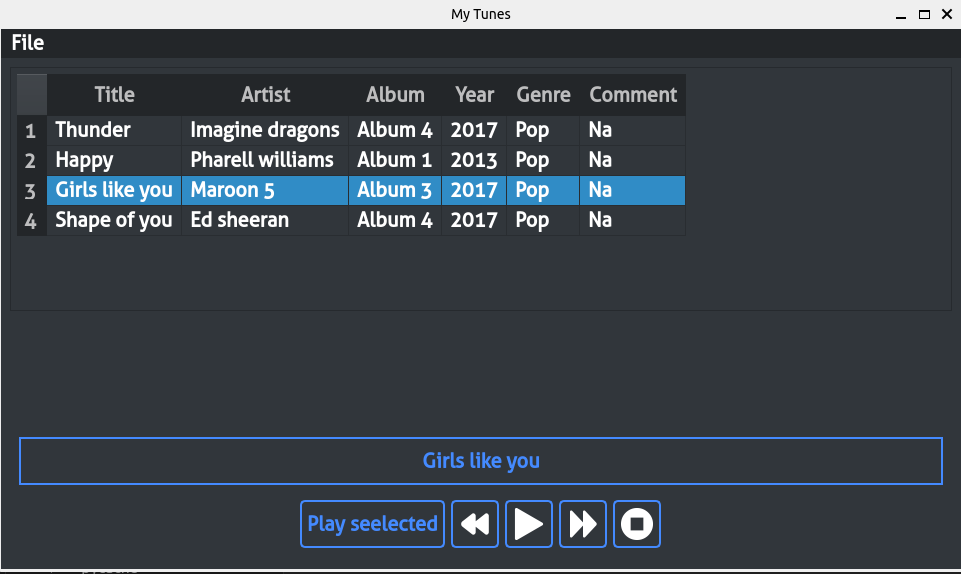
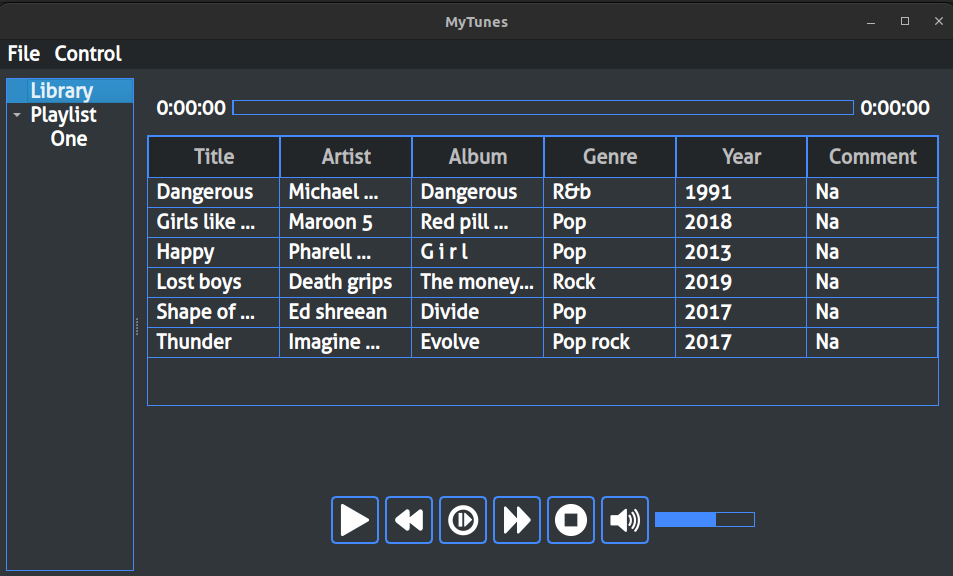
update readme

diff --git a/README.md b/README.md
@@ -30,68 +30,19 @@ python3 src/main.py
 
 * Current look
 
-![alt text](data/images/application.png)
+![App look Main window](data/images/application.png)
+\
+![App look playlist window](data/images/playlist.png)
 
 * Select and use play selected to play song of choice or play in normal way using play button.
-* Can edit meta data by just editing in the application.
+* Can edit comments of a song in the application.
 * Currently, I have not added the feature to add/remove any song to the application but it can be simply done by adding or removing mp3 files from "data/mp3-files" folder.
-
-## TODO
-
-| Task | Status |
-|------|--------|
-| Make feature to open a playlist in new window | currently stalled |
-| Make a feature to play any of last 10 songs from history stored in database | done |
-| Make a feature to hide or show certain columns | done |
-| Make control menu | done |
-| Make song position slider | done |
-| Make table ui pretty | Not started |
-| Make a feature to sort songs based on column | not started |
-
-### Make song position slider
-
-* Implemented backend for the same
-* Making ui and slots for this feature
-
-### Make control menu
-
-* Completed the following functionalities:
-  * Play selected
-  * Next
-  * Shuffle
-  * Previous
-  * Increase volume
-  * Decrease volume
-  * Repeat
-* To make keyboard shortcuts as per requirement
-
-### Make feature to open a playlist in new window
-
-* Made the ui for this
-* To clear certain doubts on how to play songs
-* To implement draMake a feature to sort songs based on columng and drop feature between windows
-* To ensure that if 1 playlist open then other playlists are not opened
-
-### Make a feature to play any of last 10 songs from history stored in database
-
-* To make a table in database which gives last 10 songs played and we can give a play recent feature based on it
-
-### Make a feature to hide or show certain columns
-
-* Make a table which contains info on which columns to hide
-* Give a context menu on column headers to show or hide the columns
-* Select which columns to show or hide, show columns
-* Update these entries in the database to make things consistent and show columns as per the selection
-
-### Make a song position slider
-
-* Make song slider ui
-* Implemented a QThread which gets position of the song and duration using pygame and mutagen api
-
-### Make table ui pretty
-
-* To make the ui pretty by getting designs of some good ui applications
-
-### Make a feature to sort songs based on column
-
-* Sort the songs based on title or other column
+* We can make our own playilst and delete them if required.
+* Songs can be added to the library or playlist by using context menu or drag and drop
+  * In the library section, context menu shows 3 entries and in the playlist it only shows 2
+  * We can add any to any playilst write from the library using the context menu
+* Any song added to the playlist will also be added to the library
+* We can add a song multiple times to the playlist but not to the library
+* We can open a playlist in a new window using context menu in the tree widget
+  * We can also drag and drop songs from library to playlist to add songs
+* We can play a song using song history in the control menu in the context menu
